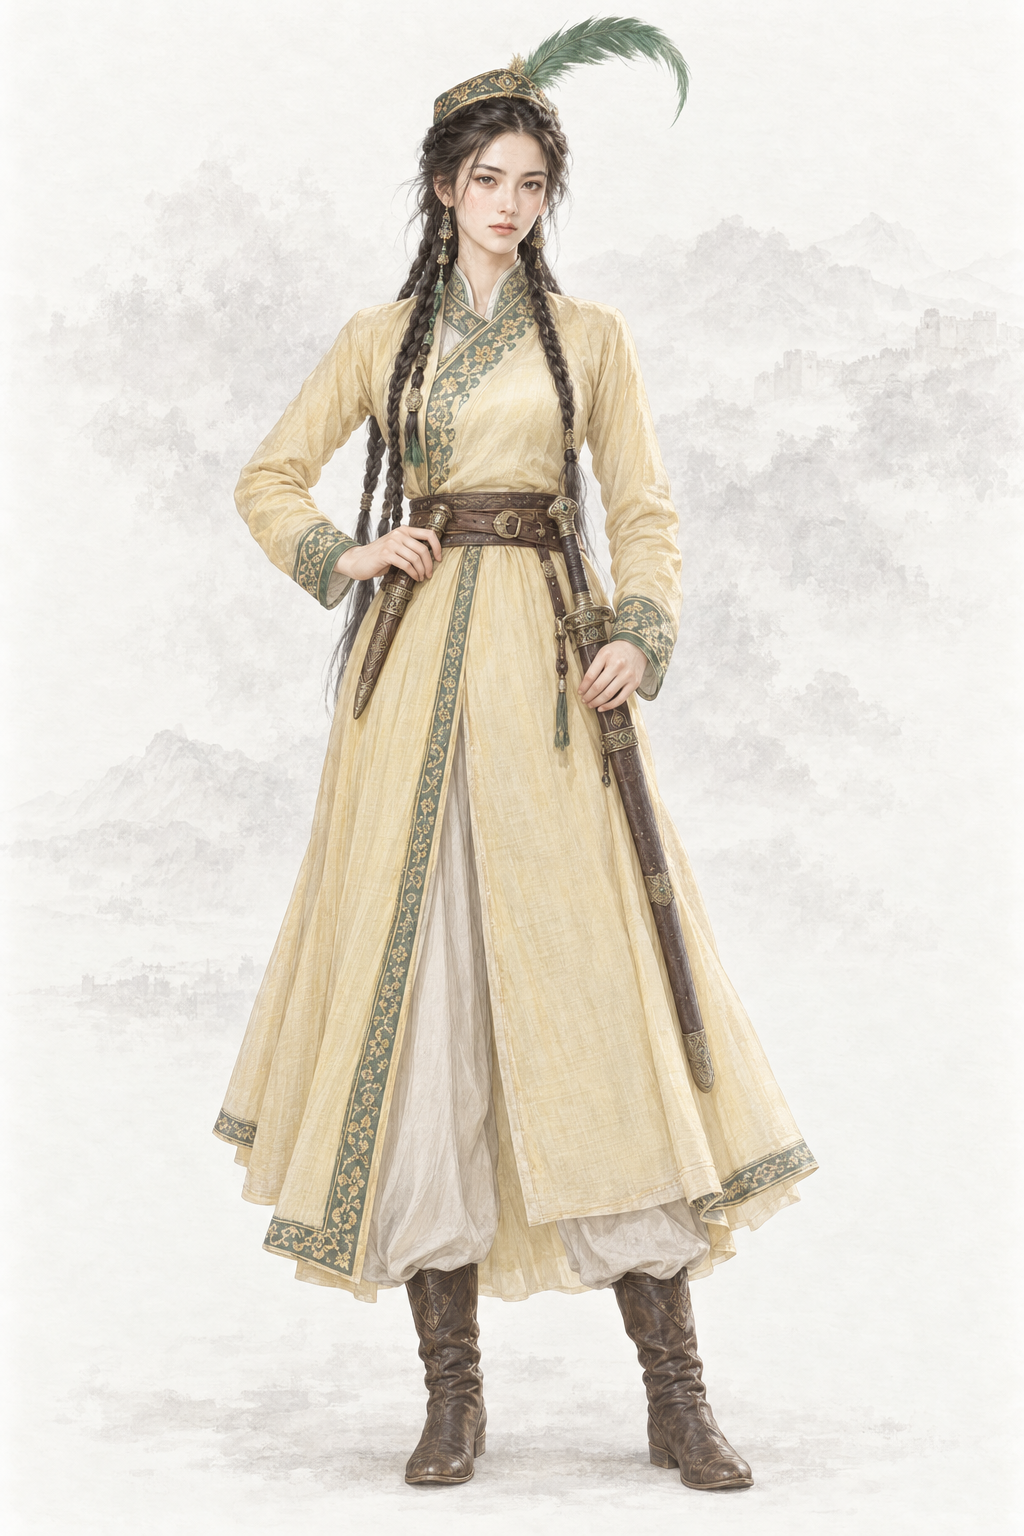
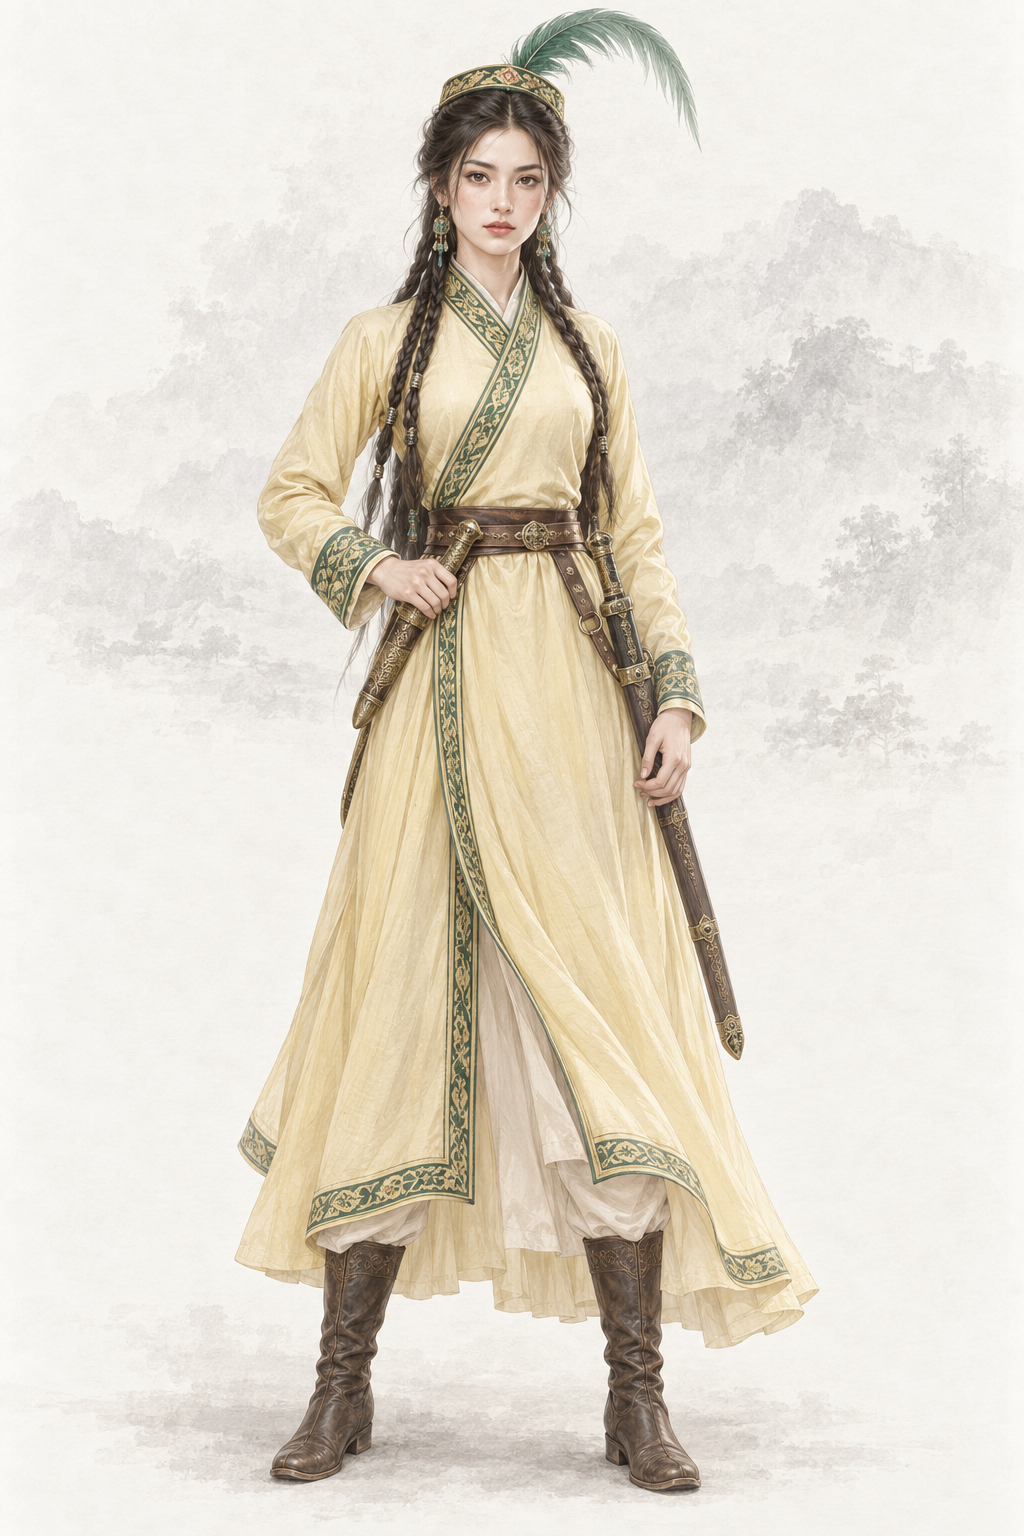
assets(character): por_npc_huoqingtong__ch12_youth_early_base 霍青桐（codex · AR-32 主要角色重出，本机无剧照：文字 + 基线）
本机无剧照，文字 + 基线；提示词写回「## Gemini 提示词」，上一版留作历史，frontmatter 加 classic_ref。

diff --git a/assets/default/prompts/characters/ch12-shujian/npc_huoqingtong.md b/assets/default/prompts/characters/ch12-shujian/npc_huoqingtong.md
@@ -15,15 +15,40 @@ references:
   use: 仅背景参考，已实际view：暖浅灰纸底、淡墨远山薄雾、留白；不采用人物脸、身体、发饰、服装或倾头姿势。
 status: redo
 redo_reason: "族裔与造型都不对：现图是通用汉族网红脸、大包头巾，原著是回部少女「头戴金丝绣的小帽、帽边插翠绿长羽、长辫垂肩、鹅黄衫子」，要有英气。"
-reference_upload:
-- assets/default/baseline/character/female/ref_npc_wangyuyan__ch01_base01.png
 realism_revision: user_identity_face_rebuild_20261001
 codex_prompt_rev: 2026-10-02
+classic_ref:
+  version: "无剧照（本机没有1976 年 TVB《书剑恩仇录》里该角色的剧照，经典造型用文字描写）"
+  stills: []
+  note: "本机没有该角色的经典版剧照，只用文字和两张同性别基线出图（AR-32）"
+reference_upload:
+- assets/default/baseline/character/female/ref_npc_wangyuyan__ch01_base01.png
+- assets/default/baseline/character/female/ref_npc_xiaolongnv__ch03_base01.png
 ---
 
 # 霍青桐 · 人物写实修正
 
 ## Gemini 提示词
+
+> 2026-10-02 AR-32 经典剧照重出（6 号出图员，codex exec · image_gen 出图）：本机没有该角色剧照：只上传两张同性别基线，经典造型用文字描写。剧照只借鉴发型、服饰、配色、标志道具、气质与面部特征，重新绘制成项目画风，不照搬照片的构图、光影和姿势；人物一律成年。提示词里不写演员名。上一版提示词保留在下一节作历史。
+
+```text
+生成一张 2:3 竖幅全身人物立绘：单人、单一视角、完整全身——头顶、双手、双脚和手中器物的两端都在画面内，四周留出自然空白；人物站姿自然，身体基本朝向正面，头部端正（不歪头、不仰不俯），镜头平视。
+【参考图】随提示词上传的两张参考图是本项目画风基线：画风、用色、光线、质感和暖浅灰纸底加淡水墨背景以它们为准；只取画风，不取长相。
+【画风】写实手绘古风人物插画，与本项目写实武侠角色立绘同一画风，像功力深厚的画师用细腻笔触画出的真实美人。手绘插画质感，不是 CG 渲染：不要过度光滑的皮肤、完美对称的五官、塑料高光、过度锐利的发丝；保留自然的笔触和细微不完美。肌肤细腻自然，看得见极细的肤理和自然的左右不对称，不磨皮、不油亮、不打粉；头发是一缕缕自然的发丝和少量碎发；布料看得出经纬纹理、厚薄和自然垂坠的褶皱，干净完整；整体设色低饱和、雅致；柔和的自然光从左上方照来，明暗过渡自然，不打舞台光、轮廓光或美颜柔光。不是照片，不是三维渲染，不是动漫或游戏 CG，也不是油画（没有厚涂笔触和画布纹理）。
+【背景】不透明的暖浅灰色纸底，只在远处有极淡的水墨远山和薄雾，大面积留白；人物与背景明暗分明、轮廓边缘干净完整（后续要自动抠图），水墨和纸纹只在背景里，不侵入人物和衣服；脚下只有很淡的一点接触阴影。
+【人物】霍青桐，金庸《书剑恩仇录》的女主角，回部首领木卓伦之女，人称「翠羽黄衫」，能统兵打仗的回疆女侠，在追回经书、赠剑之前。
+【年龄与体态】约二十岁的成年女子，身材高挑苗条，肩背挺拔，骑马练剑的结实身体，约七个半头身。
+【经典造型】要一眼认出是「翠羽黄衫」霍青桐——金丝绣花小帽插长长的翠绿羽毛、鹅黄长衫、多条长辫、腰佩一长一短两剑；英姿飒爽、明艳照人的回部女将。
+【面容】维吾尔族年轻女子的长相：鹅蛋偏长的脸，颧骨略高；眉毛浓黑修长、眉尾微扬；眼窝略深，双眼皮清楚，睫毛浓密，深褐色的眼睛双目炯炯；鼻梁挺直秀气；嘴唇饱满，嘴角坚定；肤色白里透红，两颊天然红晕。美而有英气，神情冷静自信，有统兵的沉着。
+【发式】乌黑浓密的长发编成好几条长辫，垂在肩前和背后；头顶戴一顶金丝绣花的小圆帽（贴着头顶的回部花帽，不是大头巾），帽边插一根长长的翠绿色羽毛，羽毛向后上方翘起。
+【服饰】一身鹅黄色长衫，窄袖，长及小腿，前襟和袖口有墨绿色窄边与细小刺绣；腰系一条深褐皮带；里面是宽松长裤，脚穿深褐色软皮长靴。回疆样式，衣料完整不透，可以骑马。
+【道具与姿态】腰带右侧斜插一柄带鞘短剑（父亲所赐，匕首长短，古铜色剑鞘），左侧佩一柄完全入鞘的长剑；两柄剑都不出鞘。挺拔站立，右手按在腰带上，左手轻扶长剑剑鞘，目光直视前方，英姿飒爽。
+【不要】画面里不要任何文字、题款、印章、签名、水印、台标、边框、分格或多视图；不要第二个人；不要幼态（童颜、娃娃脸、婴儿肥、儿童或少年身材、大头小身）；不要塑料感皮肤、磨皮美颜、网红脸（尖下巴大眼高鼻的模板脸）、过度对称、浓妆、偶像式打光、蜡像感；不要照片质感、三维渲染或动漫大眼；不要歪头、斜镜头；不要多指、缺指（设定的伤残除外）、手与器物粘连或悬空；汉式交领必须右衽（穿着者的左襟压在右襟上），不要左衽（设定为少数民族服制的除外），不要水平镜像；不要现代物品、日式服饰或日本刀、发光特效、法阵或能量光。不要浓妆、性感化或暴露的衣着；不要缠成大包的头巾；不要汉族发髻或清宫旗头；不要舞台化的民族服装、面纱、露腰；不要通用汉族美女脸；不要出鞘的剑。
+【画风基线】随提示词上传的参考图里，最后两张是本项目的立绘画风基线：只参考它们的画风、用色、光线、质感和暖浅灰纸底加淡水墨的背景处理，整体画风必须与它们一致——精细写实的数字手绘插画，不是油画，不要厚涂笔触和画布纹理。基线图只取画风，不取长相：不要照搬基线图里人物的长相、年龄、发型、服饰和姿势。
+```
+
+## 上一版 Gemini 提示词（2026-10-02 文字版；AR-32 经典剧照重出前，历史，不再用于出图）
 
 > 2026-10-02 Codex 人物线 2 号（AR-31）：在审核组稿上补一行「经典形象」（借鉴公认经典造型的发式、装束、配色、标志道具与气质，只写文字，不写演员名、不上传剧照），并补去 AI 化要求。本轮出图用下面第一个代码块；审核组原稿保留在其后的「审核组原稿」小节作历史。
 
